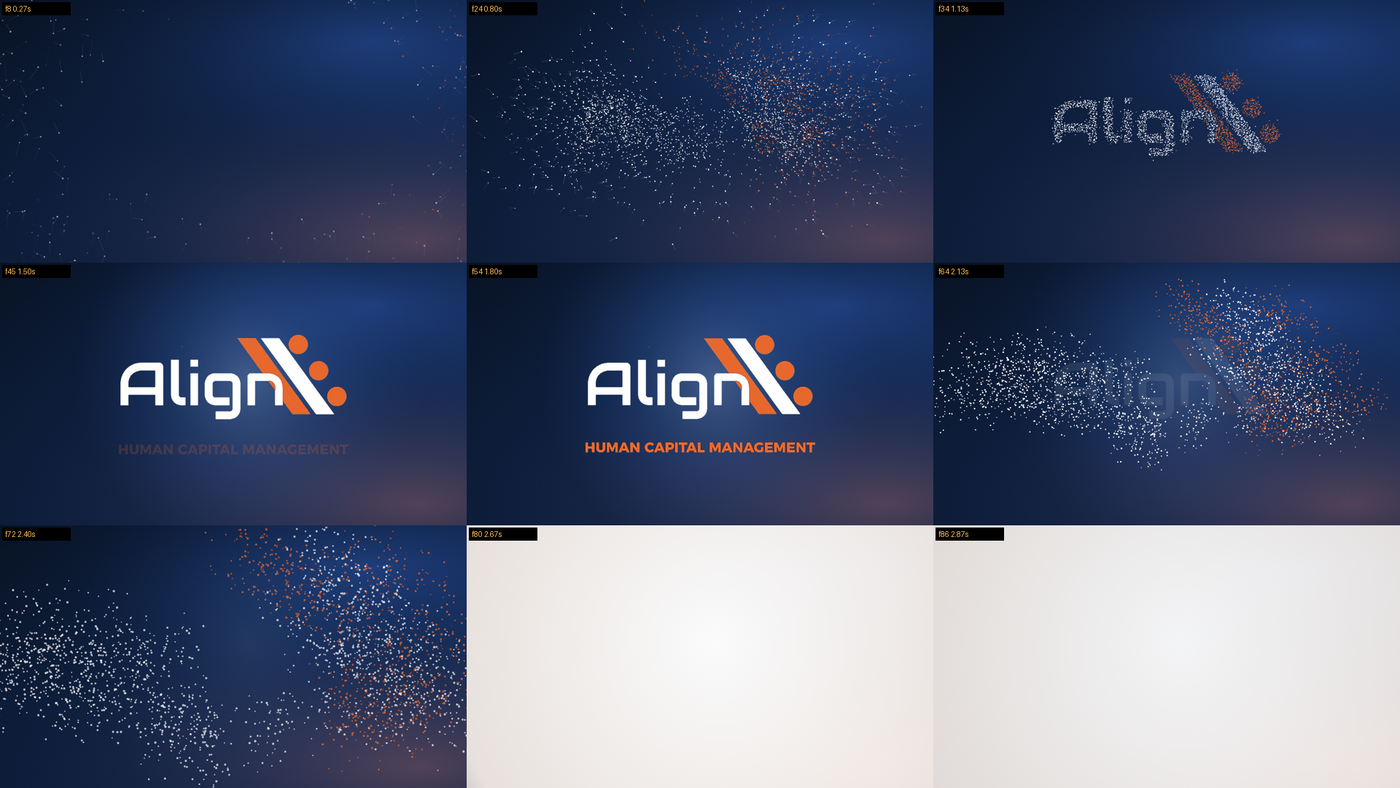
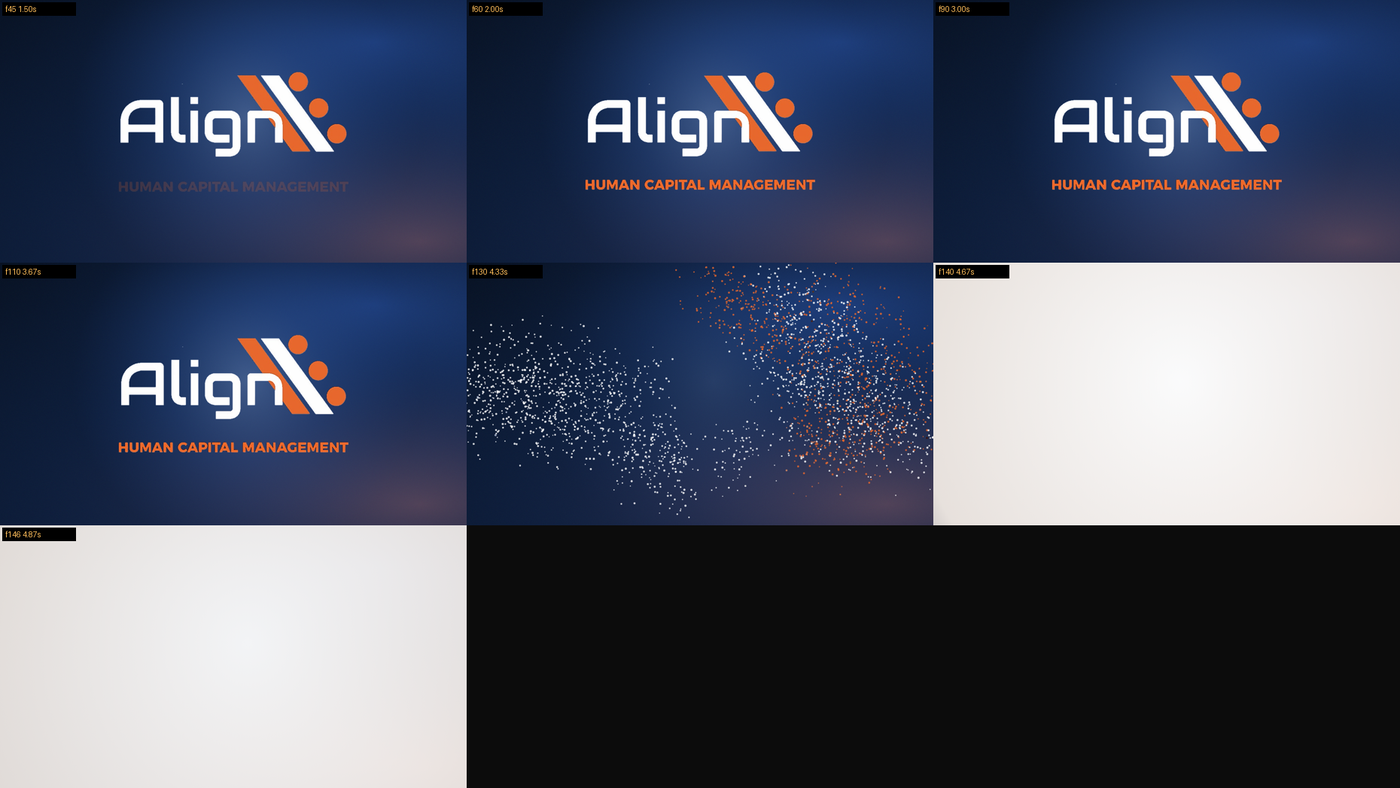
Drop the sign-off lines, match the outro mark to the intro, lengthen the intro
Three requested changes to the navy cut, now 64.6s.

The closing card loses 'Align moves at your speed.' and 'Which is always
right now.', and the divider rule goes with them since it existed only to
separate those lines from the tagline. The card now resolves to the same
lockup the intro ends on: identical asset, identical position, identical
scale, so the mark does not shift between the two ends. ALIGNHCM.COM carries
the close beneath it.

The intro is two seconds longer, 4.9s. The extra time went into the hold on
the finished lockup rather than the assemble, so the mark now reads for about
2.2s without the entrance feeling slow. Crossfade offsets moved to match.

Also replaces make_navy_cards.py with a standalone make-plate.py. The old
script needed a frame grab from the source video that was never committed, so
the build could not run from a clean checkout. The new one is fully procedural
and reproduces the plate used in the delivered cut bit for bit. The generated
plate and frame directories are now gitignored, and the superseded mockups
that still showed the sign-off lines are removed.

Claude-Session: https://claude.ai/code/session_01235zfE7PyHX7huxFLZP1f6

diff --git a/clients/align-hcm/deliverables/align-industries-particle-intro/navy-cards/outro.html b/clients/align-hcm/deliverables/align-industries-particle-intro/navy-cards/outro.html
@@ -21,26 +21,22 @@ const easeOutCubic = t => 1 - Math.pow(1 - t, 3);
 const clamp01 = t => t < 0 ? 0 : t > 1 ? 1 : t;
 const ramp = (t, a, b) => clamp01((t - a) / (b - a));
 
-// staggered reveal: the mark lands first, then the sign-off builds under it
+// The closing card resolves to the same lockup the intro ends on, so the mark
+// reads identically at both ends. The sign-off lines are gone; the URL closes.
 const T = {
-  logoIn:   [0.10, 0.72],
-  divIn:    [0.58, 0.88],
-  slog1In:  [0.78, 1.14],
-  slog2In:  [0.98, 1.34],
-  urlIn:    [1.28, 1.64],
+  logoIn: [0.10, 0.72],
+  tagIn:  [0.62, 0.98],
+  urlIn:  [1.05, 1.45],
 };
 
-const LAYOUT = {
-  logo:   { x: 490, y: 180 },
-  div:    { cy: 600 },
-  slog1:  { cy: 670 },
-  slog2:  { cy: 760 },
-  url:    { cy: 870 },
-};
+// Identical placement to intro.html so the mark does not shift between the ends.
+const LOGO_POS = { x: 490, y: 290 };
+const TAG_POS  = { x: 482, y: 730 };
+const URL_CY   = 880;
 
 const cv = document.getElementById('stage');
 const ctx = cv.getContext('2d', { alpha: false });
-let plate, logo, slog1, slog2, url, div, dust = [];
+let plate, logo, tag, url, dust = [];
 
 function loadImage(src) {
   return new Promise((res, rej) => {
@@ -52,16 +48,13 @@ function loadImage(src) {
 }
 
 async function init() {
-  [plate, logo, slog1, slog2, url, div] = await Promise.all([
+  [plate, logo, tag, url] = await Promise.all([
     loadImage('assets/plate.png'),
     loadImage('assets/logo.png'),
-    loadImage('assets/slogan1_light.png'),
-    loadImage('assets/slogan2_orange.png'),
+    loadImage('assets/tagline.png'),
     loadImage('assets/url_orange.png'),
-    loadImage('assets/divider_orange.png'),
   ]);
 
-  // slow drifting dust so the card is not a dead still for five seconds
   const rnd = mulberry32(20260826);
   for (let i = 0; i < 220; i++) {
     dust.push({
@@ -94,7 +87,7 @@ function drawDust(t) {
 function bloom(t) {
   const a = ramp(t, T.logoIn[0], T.logoIn[1]) * 0.5;
   if (a <= 0.004) return;
-  const cx = 960, cy = LAYOUT.logo.y + logo.height / 2;
+  const cx = 960, cy = LOGO_POS.y + logo.height / 2;
   const g = ctx.createRadialGradient(cx, cy, 0, cx, cy, 640);
   g.addColorStop(0, `rgba(150,190,255,${a * 0.8})`);
   g.addColorStop(0.45, `rgba(70,120,210,${a * 0.45})`);
@@ -103,53 +96,45 @@ function bloom(t) {
   ctx.fillRect(0, 0, W, H);
 }
 
-function put(img, cy, span, t, rise) {
-  const k = ramp(t, span[0], span[1]);
-  if (k <= 0.004) return;
-  const e = easeOutCubic(k);
-  ctx.save();
-  ctx.globalAlpha = e;
-  ctx.drawImage(img, Math.round(960 - img.width / 2),
-                Math.round(cy - img.height / 2 + (1 - e) * rise));
-  ctx.restore();
-}
-
 window.drawFrame = function (frame) {
   const t = frame / FPS;
   ctx.drawImage(plate, 0, 0, W, H);
   drawDust(t);
   bloom(t);
 
-  // mark: fades up with a whisper of scale so it settles rather than pops
+  // mark, matching the intro's resting position and scale
   const k = ramp(t, T.logoIn[0], T.logoIn[1]);
   if (k > 0.004) {
     const e = easeOutCubic(k);
     const s = 0.965 + 0.035 * e;
-    const cx = 960, cy = LAYOUT.logo.y + logo.height / 2;
+    const cx = 960, cy = LOGO_POS.y + logo.height / 2;
     ctx.save();
     ctx.globalAlpha = e;
     ctx.translate(cx, cy);
     ctx.scale(s, s);
     ctx.translate(-cx, -cy);
-    ctx.drawImage(logo, LAYOUT.logo.x, LAYOUT.logo.y);
+    ctx.drawImage(logo, LOGO_POS.x, LOGO_POS.y);
     ctx.restore();
   }
 
-  // divider draws outward from the centre
-  const dk = ramp(t, T.divIn[0], T.divIn[1]);
-  if (dk > 0.004) {
-    const e = easeOutCubic(dk);
-    const w = div.width * e, h = div.height;
+  const tk = ramp(t, T.tagIn[0], T.tagIn[1]);
+  if (tk > 0.004) {
+    const e = easeOutCubic(tk);
     ctx.save();
     ctx.globalAlpha = e;
-    ctx.drawImage(div, 0, 0, div.width, h,
-                  Math.round(960 - w / 2), Math.round(LAYOUT.div.cy - h / 2), w, h);
+    ctx.drawImage(tag, TAG_POS.x, Math.round(TAG_POS.y + (1 - e) * 10));
     ctx.restore();
   }
 
-  put(slog1, LAYOUT.slog1.cy, T.slog1In, t, 14);
-  put(slog2, LAYOUT.slog2.cy, T.slog2In, t, 14);
-  put(url,   LAYOUT.url.cy,   T.urlIn,   t, 10);
+  const uk = ramp(t, T.urlIn[0], T.urlIn[1]);
+  if (uk > 0.004) {
+    const e = easeOutCubic(uk);
+    ctx.save();
+    ctx.globalAlpha = e;
+    ctx.drawImage(url, Math.round(960 - url.width / 2),
+                  Math.round(URL_CY - url.height / 2 + (1 - e) * 8));
+    ctx.restore();
+  }
 
   // orange top rule, matching the deck's chrome
   ctx.fillStyle = 'rgba(231,104,45,0.95)';

diff --git a/clients/align-hcm/deliverables/align-industries-particle-intro/navy-cards/intro.html b/clients/align-hcm/deliverables/align-industries-particle-intro/navy-cards/intro.html
@@ -4,7 +4,7 @@
 </style>
 <canvas id="stage" width="1920" height="1080"></canvas>
 <script>
-const W = 1920, H = 1080, FPS = 30, DUR = 2.9;
+const W = 1920, H = 1080, FPS = 30, DUR = 4.9;
 const TOTAL = Math.round(DUR * FPS);
 
 // Deterministic PRNG so every render of a given frame is identical.
@@ -25,10 +25,10 @@ const T = {
   crystalOut:  1.48,
   tagIn:       1.45,
   tagOut:      1.72,
-  holdEnd:     1.95,   // dispersal begins
-  scatterEnd:  2.62,   // particles fully gone
-  boomIn:      2.48,   // fast flash
-  boomPeak:    2.68,
+  holdEnd:     3.95,   // dispersal begins, +2.0s of hold on the lockup
+  scatterEnd:  4.62,   // particles fully gone
+  boomIn:      4.48,   // fast flash
+  boomPeak:    4.68,
   end:         DUR,
 };
 

diff --git a/clients/align-hcm/deliverables/align-industries-particle-intro/navy-cards/make-plate.py b/clients/align-hcm/deliverables/align-industries-particle-intro/navy-cards/make-plate.py
@@ -1,0 +1,55 @@
+"""Generate the navy background plate for the intro and closing cards.
+
+Fully procedural, no dependency on the source video. The plate mirrors the
+gradient character of the deck's own cream plate so the two ends read as the same
+design system rather than a generic dark slate:
+
+| Sample       | cream plate | navy plate mirrors it with |
+|--------------|-------------|----------------------------|
+| top left     | `#DCD7D4`   | deepest navy               |
+| top right    | `#FBF6F3`   | cool blue bloom            |
+| centre       | `#F6F0EB`   | mid navy, light vignette   |
+| bottom right | `#EDCEBB`   | warm orange blush          |
+
+Writes assets/plate.png at 1920x1080.
+"""
+import os
+import numpy as np
+from PIL import Image
+
+W, H = 1920, 1080
+NAVY_DEEP = np.array([9.0, 20.0, 38.0])     # #091426
+NAVY_MID = np.array([20.0, 42.0, 84.0])     # #142A54
+ORANGE = np.array([231.0, 104.0, 45.0])     # #E7682D, the video's own orange
+
+
+def navy_plate():
+    yy, xx = np.mgrid[0:H, 0:W].astype(np.float32)
+    u, v = xx / (W - 1), yy / (H - 1)
+
+    lift = np.clip(0.30 + 0.55 * u + 0.30 * v - 0.22 * (1 - u) * (1 - v), 0, 1)
+    base = NAVY_DEEP[None, None, :] + (NAVY_MID - NAVY_DEEP)[None, None, :] * lift[..., None]
+
+    d_cool = np.hypot((u - 0.80) * 1.10, (v - 0.16) * 1.65)
+    cool = np.clip(1 - d_cool / 0.85, 0, 1) ** 2.0
+    base += np.array([26.0, 52.0, 104.0])[None, None, :] * cool[..., None] * 0.55
+
+    d_warm = np.hypot((u - 0.90) * 1.00, (v - 0.92) * 1.50)
+    warm = np.clip(1 - d_warm / 0.95, 0, 1) ** 2.2
+    base += ORANGE[None, None, :] * warm[..., None] * 0.30
+
+    d_c = np.hypot((u - 0.5) * 1.05, (v - 0.5) * 1.35)
+    base *= (1 - 0.20 * np.clip(d_c / 1.05, 0, 1) ** 2)[..., None]
+
+    # the deck's plate is textured, not glassy
+    rng = np.random.default_rng(20260825)
+    base += rng.normal(0.0, 2.0, base.shape)
+    return Image.fromarray(np.clip(base, 0, 255).astype(np.uint8), 'RGB')
+
+
+if __name__ == '__main__':
+    here = os.path.dirname(os.path.abspath(__file__))
+    out = os.path.join(here, 'assets', 'plate.png')
+    os.makedirs(os.path.dirname(out), exist_ok=True)
+    navy_plate().save(out)
+    print(f'wrote {out}')

diff --git a/clients/align-hcm/deliverables/align-industries-particle-intro/navy-cards/README.md b/clients/align-hcm/deliverables/align-industries-particle-intro/navy-cards/README.md
@@ -1,12 +1,11 @@
 # Navy intro and outro cards
 
-Design mockups for reworking the two ends of the industries video onto brand navy
-so the reversed Align logo reads as supplied. The light body of the video is not
-touched, so the ends become a branded sting rather than a change of look
-throughout.
+Reworks the two ends of the industries video onto brand navy so the reversed Align
+logo reads as supplied. The light body of the video is not touched, so the ends
+become a branded sting rather than a change of look throughout.
 
-`make_navy_cards.py` generates `navy-plate.png`, `card-intro-navy.png`, and
-`card-outro-navy.png`.
+`make-plate.py` generates the plate. It is fully procedural with no dependency on
+the source video, and reproduces the exact plate used in the delivered cut.
 
 ## The plate mirrors the deck's own gradient
 
@@ -29,36 +28,31 @@ system as the body rather than a generic dark slate.
 
 ## Outro card composition
 
-The card's own elements are lifted from the video's frame and recoloured only
-where a dark ground requires it:
-
-| Element | Source in frame | Treatment |
+| Element | Source | Treatment |
 |---|---|---|
-| Align mark | y144..471 | replaced with the reversed logo |
-| divider rule | y628..632 | kept orange, reads fine on navy |
-| `Align moves at your speed.` | y693..763 | navy to warm white, it would vanish otherwise |
-| `Which is always right now.` | y786..858 | kept orange |
-| `ALIGNHCM.COM` | y906..928 | kept orange |
-| top rule | y0..6 | orange over deep navy |
+| Align mark | `assets/logo.png` | reversed lockup, same placement as the intro |
+| `HUMAN CAPITAL MANAGEMENT` | `assets/tagline.png` | reversed, same placement as the intro |
+| `ALIGNHCM.COM` | lifted from frame y906..928 | kept orange, it reads on navy |
+| top rule | drawn | orange over deep navy |
 
-`HUMAN CAPITAL MANAGEMENT` stays off the outro, per the earlier decision, and
-appears only in the intro.
+`ALIGNHCM.COM` is the only element still lifted from the video's own frame, which
+is why `assets/url_orange.png` is committed.
 
 ## Built and running
 
-`./build-navy.sh <source.mp4>` produces the finished 1920x1080, 30fps, 62.7s cut
-(1,881 frames). Three segments joined in a single encode:
+`./build-navy.sh <source.mp4>` produces the finished 1920x1080, 30fps, 64.6s cut
+(1,938 frames). Three segments joined in a single encode:
 
 | Segment | Frames | Source |
 |---|---|---|
-| navy particle intro | 87 (2.9s) | `intro.html` |
+| navy particle intro | 147 (4.9s) | `intro.html` |
 | light body, untouched | 1,638 (54.6s) | original frames 162..1799 |
 | navy closing card | 174 (5.8s) | `outro.html` |
 
-Joins are crossfades: 0.30s from the intro into the body at 2.60s, hidden under
-the intro's white flash, and 0.40s from the body into the closing card at 56.90s,
+Joins are crossfades: 0.30s from the intro into the body at 4.60s, hidden under
+the intro's white flash, and 0.40s from the body into the closing card at 58.80s,
 so the SmartCare page dissolves to navy. The closing card is 174 frames precisely
-so the total runtime matches the original's own outro length.
+so it occupies the same span the original's own outro did.
 
 ### Intro on navy
 
@@ -69,12 +63,25 @@ a dark ground. The closing white flash is unchanged and still works, because it
 now flashes from navy through white into the cream body, which makes the handoff
 punchier than it was on cream.
 
+The lockup holds for roughly 2.2s before the burst. The extra time went into the
+hold rather than the assemble, so the mark is readable without the entrance
+feeling slow.
+
 ### Closing card
 
+Resolves to the **same lockup the intro ends on**: identical asset, identical
+position (`490,290` for the mark, `482,730` for the tagline), identical scale, so
+the mark does not shift between the two ends. `ALIGNHCM.COM` carries the close
+beneath it.
+
 Staggered build rather than a static plate: the mark fades up with a whisper of
-scale, the divider draws outward from the centre, then the two sign-off lines and
-the URL rise in sequence, finishing at 1.64s and holding. A slow field of 220
-drifting dust motes keeps the five-second hold from looking like a freeze frame.
+scale, then the tagline and the URL rise in sequence, finishing at 1.45s and
+holding. A slow field of 220 drifting dust motes keeps the five-second hold from
+looking like a freeze frame.
+
+The earlier sign-off lines, `Align moves at your speed.` and `Which is always
+right now.`, were removed, and the divider rule went with them since it existed
+only to separate them from the tagline.
 
 ## Still pending the vector
 
@@ -84,4 +91,5 @@ in motion but it is not as crisp as the mark the original video drew at 1043px.
 When a vector or a 2000px+ export arrives, replace `assets/logo.png` and
 `assets/tagline.png` and re-run; nothing else needs to change.
 
-One open layout note: the outro divider sits fairly tight under the mark.
+`assets/plate.png` is generated, not committed, and so are the frame
+directories. Everything else needed to rebuild is here.
